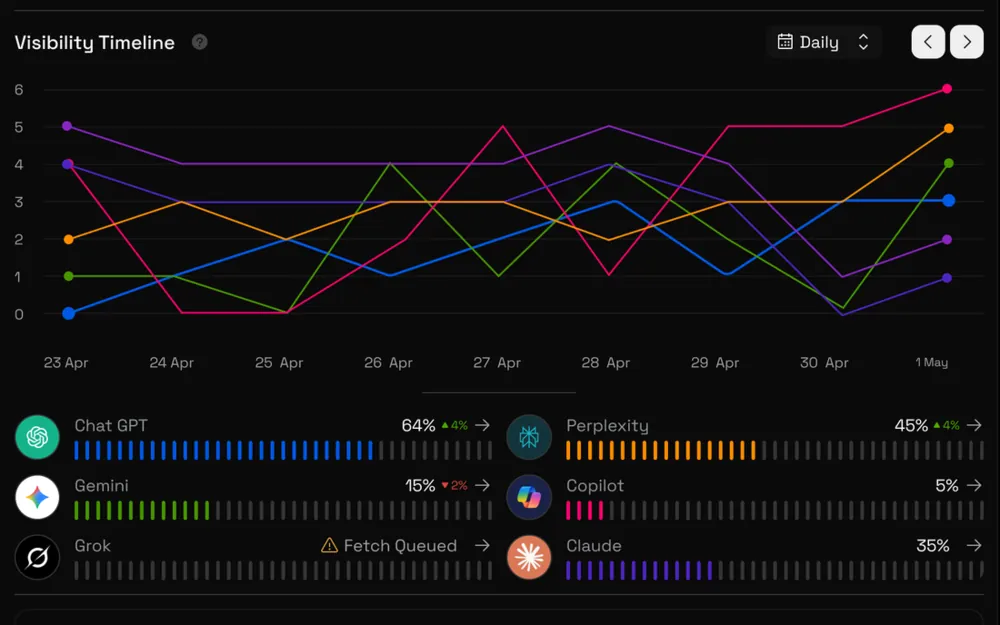
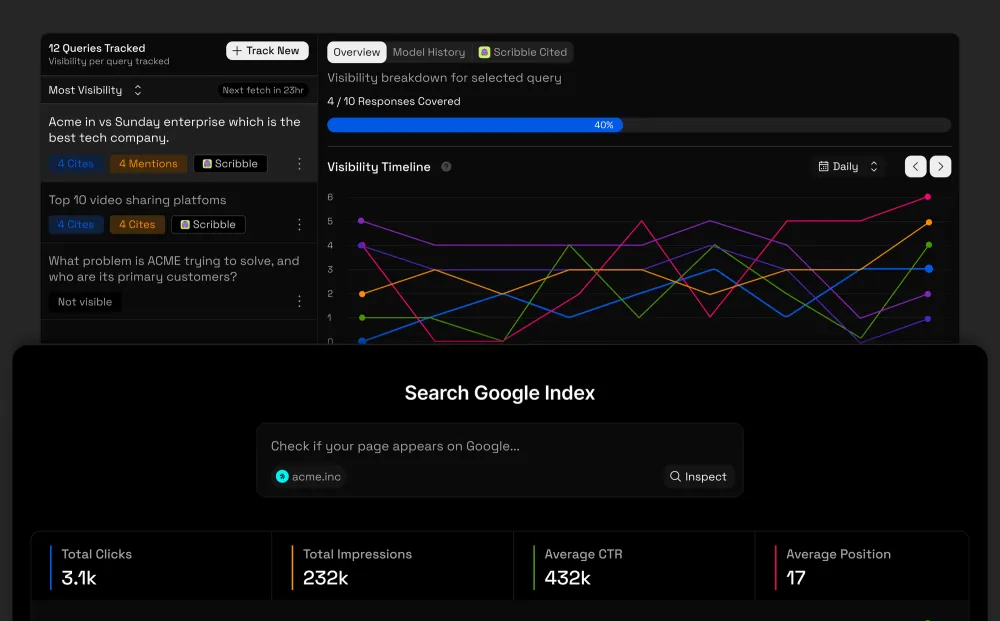
Refresh case-study screenshots, new OG image, mobile form and drawer fixes
- Replace Sciaxo, Buidl.so and Scribble drawer screenshots with single optimized WebP sets
- New OG image and Twitter card tags, title separator
- Stack contact form labels above fields on phones; no autofocus when drawers open on touch
- Fix theme reveal flash (fill: forwards, drop brightness bloom)
- Composer links are buttons without mailto hrefs; all mailto links use hey@glitchnobody.com
- Remove unused CSS

diff --git a/index.html b/index.html
@@ -3,23 +3,26 @@
 <head>
 	<meta charset="UTF-8">
 	<meta name="viewport" content="width=device-width, initial-scale=1.0">
-	<title>Siddhant Vij Product Designer &amp; Developer</title>
+	<title>Siddhant Vij | Product Designer &amp; Developer</title>
 	<meta name="description" content="Product designer and developer with 6+ years of experience, creating solutions that make people think, &ldquo;Why didn&rsquo;t this exist before?&rdquo;">
 	<link rel="canonical" href="https://siddhantvij.com/">
 	<link rel="alternate" type="text/markdown" href="/agent.md" title="Agent view">
 	<meta name="theme-color" content="#121212">
 	<meta property="og:type" content="website">
 	<meta property="og:site_name" content="Siddhant Vij">
-	<meta property="og:title" content="Siddhant Vij Product Designer &amp; Developer">
+	<meta property="og:title" content="Siddhant Vij | Product Designer &amp; Developer">
 	<meta property="og:description" content="Product designer and developer with 6+ years of experience, creating solutions that make people think, &ldquo;Why didn&rsquo;t this exist before?&rdquo;">
 	<meta property="og:url" content="https://siddhantvij.com/">
-	<meta property="og:image" content="https://siddhantvij.com/img/setup.webp">
-	<meta property="og:image:width" content="1600">
-	<meta property="og:image:height" content="900">
-	<meta property="og:image:alt" content="Siddhant Vij's Arch Linux desktop with a file manager, fastfetch, btop and a terminal">
+	<meta property="og:image" content="https://siddhantvij.com/img/og.jpg">
+	<meta property="og:image:type" content="image/jpeg">
+	<meta property="og:image:width" content="1200">
+	<meta property="og:image:height" content="630">
+	<meta property="og:image:alt" content="Siddhant Vij, with the words Make Products Feel Amazing on a dark on-screen keyboard">
 	<meta property="og:locale" content="en_US">
 	<meta name="author" content="Siddhant Vij">
 	<meta name="twitter:card" content="summary_large_image">
+	<meta name="twitter:title" content="Siddhant Vij | Product Designer &amp; Developer">
+	<meta name="twitter:image" content="https://siddhantvij.com/img/og.jpg">
 	<script type="application/ld+json">{"@context":"https://schema.org","@type":"Person","name":"Siddhant Vij","url":"https://siddhantvij.com/","jobTitle":"Product Designer & Developer","description":"Product designer and developer with 6+ years of experience.","email":"mailto:hey@glitchnobody.com","worksFor":{"@type":"Organization","name":"Auctervia"},"sameAs":["https://www.glitchnobody.com","https://www.behance.net/glitchnobody","https://x.com/glitchnobody","https://www.linkedin.com/in/glitchnobody","https://www.instagram.com/glitch.nobody"]}</script>
 	<link rel="icon" href="img/favicon.svg" type="image/svg+xml">
 	<link rel="preload" href="fonts/inter-tight-latin.woff2" as="font" type="font/woff2" crossorigin>
@@ -45,9 +48,9 @@
 				</div>
 			</div>
 
-			<p>I&rsquo;m a product designer and developer with 6+ years of experience building experiences people want to keep coming back to. Currently, I&rsquo;m building the visibility layer that makes AI agents accountable at <a class="chip" href="mailto:sid.work0001@gmail.com?subject=Auctervia" data-open="auctervia" data-lead="," data-reveal="we save your tokens and deploy AI at scale while making sure it never performs any unauthorised tasks."><svg aria-hidden="true"><use href="img/icons.svg#auctervia"/></svg>Auctervia</a>, while also consulting as a product lead at <a class="chip" href="https://sciaxolabs.com" target="_blank" rel="noopener" data-lead="," data-reveal="building AI-native products for large-scale team and employee management."><svg aria-hidden="true"><use href="img/icons.svg#sciaxo"/></svg>Sciaxo Labs</a>. Previously, I was working as the product lead at <a class="chip" href="https://scribble.network" target="_blank" rel="noopener" data-lead="," data-reveal="UGC content driver for AI visibility using 500k creators."><svg class="rnd" aria-hidden="true"><use href="img/icons.svg#scribble"/></svg>Scribble</a>, helping brands understand and improve their visibility in AI answers. I love creating solutions that make people think, &ldquo;Why didn&rsquo;t this exist before?&rdquo;</p>
+			<p>I&rsquo;m a product designer and developer with 6+ years of experience building experiences people want to keep coming back to. Currently, I&rsquo;m building the visibility layer that makes AI agents accountable at <a class="chip" href="mailto:hey@glitchnobody.com?subject=Auctervia" data-open="auctervia" data-lead="," data-reveal="we save your tokens and deploy AI at scale while making sure it never performs any unauthorised tasks."><svg aria-hidden="true"><use href="img/icons.svg#auctervia"/></svg>Auctervia</a>, while also consulting as a product lead at <a class="chip" href="https://sciaxolabs.com" target="_blank" rel="noopener" data-lead="," data-reveal="building AI-native products for large-scale team and employee management."><svg aria-hidden="true"><use href="img/icons.svg#sciaxo"/></svg>Sciaxo Labs</a>. Previously, I was working as the product lead at <a class="chip" href="https://scribble.network" target="_blank" rel="noopener" data-lead="," data-reveal="UGC content driver for AI visibility using 500k creators."><svg class="rnd" aria-hidden="true"><use href="img/icons.svg#scribble"/></svg>Scribble</a>, helping brands understand and improve their visibility in AI answers. I love creating solutions that make people think, &ldquo;Why didn&rsquo;t this exist before?&rdquo;</p>
 
-			<p>Say hello by dropping me a <a class="ilink" href="mailto:sid.work0001@gmail.com" data-open="contact"><svg aria-hidden="true"><use href="img/icons.svg#mail"/></svg><b>Mail</b></a>, and if you are curious about my work explore more and read My case studies on <a class="chip" href="https://www.glitchnobody.com" data-lead="." data-reveal="I also put up graphics, motion and other cool stuff here."><svg aria-hidden="true"><use href="img/icons.svg#glitchnobody"/></svg>Glitchnobody.com</a>. I am active on <a class="ilink" href="https://x.com/glitchnobody" target="_blank" rel="noopener"><svg aria-hidden="true"><use href="img/icons.svg#x"/></svg><b>x.com</b></a>, <a class="ilink" href="https://www.linkedin.com/in/glitchnobody" target="_blank" rel="noopener"><svg aria-hidden="true"><use href="img/icons.svg#linkedin"/></svg><b>LinkedIn</b></a> and <a class="ilink" href="https://www.instagram.com/glitch.nobody" target="_blank" rel="noopener"><svg aria-hidden="true"><use href="img/icons.svg#instagram"/></svg><b>Instagram</b></a>.</p>
+			<p>Say hello by dropping me a <a class="ilink" href="mailto:hey@glitchnobody.com" data-open="contact"><svg aria-hidden="true"><use href="img/icons.svg#mail"/></svg><b>Mail</b></a>, and if you are curious about my work explore more and read My case studies on <a class="chip" href="https://www.glitchnobody.com" data-lead="." data-reveal="I also put up graphics, motion and other cool stuff here."><svg aria-hidden="true"><use href="img/icons.svg#glitchnobody"/></svg>Glitchnobody.com</a>. I am active on <a class="ilink" href="https://x.com/glitchnobody" target="_blank" rel="noopener"><svg aria-hidden="true"><use href="img/icons.svg#x"/></svg><b>x.com</b></a>, <a class="ilink" href="https://www.linkedin.com/in/glitchnobody" target="_blank" rel="noopener"><svg aria-hidden="true"><use href="img/icons.svg#linkedin"/></svg><b>LinkedIn</b></a> and <a class="ilink" href="https://www.instagram.com/glitch.nobody" target="_blank" rel="noopener"><svg aria-hidden="true"><use href="img/icons.svg#instagram"/></svg><b>Instagram</b></a>.</p>
 		</section>
 
 		<section class="group experience">
@@ -66,7 +69,7 @@
 			<ul>
 				<!-- the whole row opens the contact form through .cover, so the copy button can sit on top of it -->
 				<li class="row has-cover">
-					<a class="cover" href="mailto:sid.work0001@gmail.com" data-open="contact" aria-label="Email"></a>
+					<a class="cover" href="mailto:hey@glitchnobody.com" data-open="contact" aria-label="Email"></a>
 					<span class="tile"><svg aria-hidden="true"><use href="img/icons.svg#mail"/></svg></span>
 					<span class="who"><span class="name">Email</span><span class="role">hey@glitchnobody.com</span></span>
 					<span class="go">
@@ -195,9 +198,9 @@
 		<div class="rbody"></div>
 	</dialog>
 	<template id="role-auctervia"><p class="lede">Building the visibility layer that makes AI agents accountable. We save your tokens and deploy AI at scale, while making sure it never performs any unauthorised tasks.</p></template>
-	<template id="role-sciaxo"><h3>Product identity &amp; design</h3><p>Created the product identity for their HexaShifts product on web app and mobile. Created a UI library the team can use, along with proper UI flows, to make the process of team management effortless.</p><h3>My responsibility</h3><p>My core responsibility was the oversight of product development and design, creating solutions to deploy the app at scale to manage concerts and sports events in the UK.</p><div class="shots"><figure class="shot tl"><img src="img/work/sciaxo-overview-1000.webp" srcset="img/work/sciaxo-overview-640.webp 640w, img/work/sciaxo-overview-1000.webp 1000w, img/work/sciaxo-overview-1400.webp 1400w" sizes="(min-width: 561px) min(728px, calc(100vw - 72px)), calc(100vw - 72px)" width="1000" height="481" loading="lazy" alt="HexaShifts team overview: employees, active shifts, completed shifts and pending approvals, with shift trend and attendance charts"></figure><figure class="shot tr"><img src="img/work/sciaxo-schedule-1000.webp" srcset="img/work/sciaxo-schedule-640.webp 640w, img/work/sciaxo-schedule-1000.webp 1000w, img/work/sciaxo-schedule-1400.webp 1400w" sizes="(min-width: 561px) min(728px, calc(100vw - 72px)), calc(100vw - 72px)" width="1000" height="625" loading="lazy" alt="HexaShifts schedule: a day view of shifts grouped by workforce position, with each shift published"></figure><figure class="shot tl"><img src="img/work/sciaxo-people-1000.webp" srcset="img/work/sciaxo-people-640.webp 640w, img/work/sciaxo-people-1000.webp 1000w, img/work/sciaxo-people-1400.webp 1400w" sizes="(min-width: 561px) min(728px, calc(100vw - 72px)), calc(100vw - 72px)" width="1000" height="500" loading="lazy" alt="HexaShifts people list: employees with their role, position, zones and active status"></figure></div></template>
-	<template id="role-scribble"><h3>Product &amp; brand</h3><p>Created both the B2B and customer platform software for AI optimized SEO content, and headed product design and brand identity. Implemented new features to improve UX and boost user satisfaction.</p><h3>Results</h3><p>Built a platform with 20+ companies as paying customers and over 50,000 creators making UGC content.</p><h3>My responsibility</h3><p>Contributed to frontend code for UI animations and user-centric features, and played a key role in user research, affinity mapping and product roadmap planning.</p><div class="shots"><figure class="shot tl"><img src="img/work/scribble-overview-1000.webp" srcset="img/work/scribble-overview-640.webp 640w, img/work/scribble-overview-1000.webp 1000w, img/work/scribble-overview-1400.webp 1400w" sizes="(min-width: 561px) min(728px, calc(100vw - 72px)), calc(100vw - 72px)" width="1000" height="625" loading="lazy" alt="Scribble overview: queries tracked, competitors and engines, total visibility, a visibility timeline and the most visible queries"></figure><figure class="shot tr"><img src="img/work/scribble-queries-1000.webp" srcset="img/work/scribble-queries-640.webp 640w, img/work/scribble-queries-1000.webp 1000w, img/work/scribble-queries-1400.webp 1400w" sizes="(min-width: 561px) min(728px, calc(100vw - 72px)), calc(100vw - 72px)" width="1000" height="625" loading="lazy" alt="Scribble query insights: visibility breakdown per AI model for a selected query, with its timeline and sources"></figure><figure class="shot tl"><img src="img/work/scribble-analytics-1000.webp" srcset="img/work/scribble-analytics-640.webp 640w, img/work/scribble-analytics-1000.webp 1000w, img/work/scribble-analytics-1400.webp 1400w" sizes="(min-width: 561px) min(728px, calc(100vw - 72px)), calc(100vw - 72px)" width="1000" height="625" loading="lazy" alt="Scribble Google Analytics view: returning users, sessions, page views, user acquisition by channel and daily trends"></figure></div></template>
-	<template id="role-buidl"><h3>Brand &amp; design system</h3><p>Led the rebranding of the Buidl.so app platform, enhancing its visual identity, and developed and optimized the company design system for consistency.</p><h3>Product</h3><p>Implemented new features to improve UX and boost user satisfaction, collaborating with developers to ship them seamlessly, and worked with the copywriting and marketing team to enhance user traction.</p><h3>Results</h3><p>The platform grew to 1458+ startups, with $3,371,996+ in credits disbursed, 408+ value adders and 106+ asks fulfilled.</p><h3>My responsibility</h3><p>Contributed to frontend code for UI animations and user-centric features, and played a key role in user research, affinity mapping and product roadmap planning.</p><div class="shots"><figure class="shot tr"><img src="img/work/buidl-feed-1000.webp" srcset="img/work/buidl-feed-640.webp 640w, img/work/buidl-feed-1000.webp 1000w, img/work/buidl-feed-1400.webp 1400w" sizes="(min-width: 561px) min(728px, calc(100vw - 72px)), calc(100vw - 72px)" width="1000" height="625" loading="lazy" alt="Buidl.so feed with program, product update and credits announcements, and a startup stats panel"></figure><figure class="shot tl"><img src="img/work/buidl-landing-1000.webp" srcset="img/work/buidl-landing-640.webp 640w, img/work/buidl-landing-1000.webp 1000w, img/work/buidl-landing-1400.webp 1400w" sizes="(min-width: 561px) min(728px, calc(100vw - 72px)), calc(100vw - 72px)" width="1000" height="625" loading="lazy" alt="Buidl.so landing page: Show Progress, Get Ecosystem Support, with the Builders Tribe progress timeline"></figure><figure class="shot tr"><img src="img/work/buidl-programs-1000.webp" srcset="img/work/buidl-programs-640.webp 640w, img/work/buidl-programs-1000.webp 1000w, img/work/buidl-programs-1400.webp 1400w" sizes="(min-width: 561px) min(728px, calc(100vw - 72px)), calc(100vw - 72px)" width="1000" height="625" loading="lazy" alt="Buidl.so programs page with a featured Demo Day program and a grid of programs to apply to"></figure><figure class="shot tl"><img src="img/work/buidl-messaging-1000.webp" srcset="img/work/buidl-messaging-640.webp 640w, img/work/buidl-messaging-1000.webp 1000w, img/work/buidl-messaging-1400.webp 1400w" sizes="(min-width: 561px) min(728px, calc(100vw - 72px)), calc(100vw - 72px)" width="1000" height="625" loading="lazy" alt="Buidl.so messaging with a conversation list, chat thread and a crypto wallet"></figure></div></template>
+	<template id="role-sciaxo"><h3>Product identity &amp; design</h3><p>Created the product identity for their HexaShifts product on web app and mobile. Created a UI library the team can use, along with proper UI flows, to make the process of team management effortless.</p><h3>My responsibility</h3><p>My core responsibility was the oversight of product development and design, creating solutions to deploy the app at scale to manage concerts and sports events in the UK.</p><div class="shots"><figure class="shot"><img src="img/work/sciaxo-1000.webp" srcset="img/work/sciaxo-640.webp 640w, img/work/sciaxo-1000.webp 1000w, img/work/sciaxo-1400.webp 1400w" sizes="(min-width: 561px) min(728px, calc(100vw - 72px)), calc(100vw - 72px)" width="1000" height="621" loading="lazy" alt="HexaShifts team view: sidebar navigation, a people list, pending approval stats and a shift trends chart"></figure></div></template>
+	<template id="role-scribble"><h3>Product &amp; brand</h3><p>Created both the B2B and customer platform software for AI optimized SEO content, and headed product design and brand identity. Implemented new features to improve UX and boost user satisfaction.</p><h3>Results</h3><p>Built a platform with 20+ companies as paying customers and over 50,000 creators making UGC content.</p><h3>My responsibility</h3><p>Contributed to frontend code for UI animations and user-centric features, and played a key role in user research, affinity mapping and product roadmap planning.</p><div class="shots"><figure class="shot"><img src="img/work/scribble-visibility-1000.webp" srcset="img/work/scribble-visibility-640.webp 640w, img/work/scribble-visibility-1000.webp 1000w, img/work/scribble-visibility-1400.webp 1400w" sizes="(min-width: 561px) min(728px, calc(100vw - 72px)), calc(100vw - 72px)" width="1000" height="621" loading="lazy" alt="Scribble dashboard: total visibility score, visibility per AI model, a conversation radar and a visibility timeline"></figure><figure class="shot"><img src="img/work/scribble-queries-1000.webp" srcset="img/work/scribble-queries-640.webp 640w, img/work/scribble-queries-1000.webp 1000w, img/work/scribble-queries-1400.webp 1400w" sizes="(min-width: 561px) min(728px, calc(100vw - 72px)), calc(100vw - 72px)" width="1000" height="621" loading="lazy" alt="Scribble query tracking: tracked queries with cites and mentions, a visibility timeline and Google index search stats"></figure></div></template>
+	<template id="role-buidl"><h3>Brand &amp; design system</h3><p>Led the rebranding of the Buidl.so app platform, enhancing its visual identity, and developed and optimized the company design system for consistency.</p><h3>Product</h3><p>Implemented new features to improve UX and boost user satisfaction, collaborating with developers to ship them seamlessly, and worked with the copywriting and marketing team to enhance user traction.</p><h3>Results</h3><p>The platform grew to 1458+ startups, with $3,371,996+ in credits disbursed, 408+ value adders and 106+ asks fulfilled.</p><h3>My responsibility</h3><p>Contributed to frontend code for UI animations and user-centric features, and played a key role in user research, affinity mapping and product roadmap planning.</p><div class="shots"><figure class="shot"><img src="img/work/buidl-tribe-1000.webp" srcset="img/work/buidl-tribe-640.webp 640w, img/work/buidl-tribe-1000.webp 1000w, img/work/buidl-tribe-1400.webp 1400w" sizes="(min-width: 561px) min(728px, calc(100vw - 72px)), calc(100vw - 72px)" width="1000" height="621" loading="lazy" alt="Builders Tribe overview: startup profile, follower analytics and a quarterly timeline of unlocked credits and mentors"></figure><figure class="shot"><img src="img/work/buidl-community-1000.webp" srcset="img/work/buidl-community-640.webp 640w, img/work/buidl-community-1000.webp 1000w, img/work/buidl-community-1400.webp 1400w" sizes="(min-width: 561px) min(728px, calc(100vw - 72px)), calc(100vw - 72px)" width="1000" height="621" loading="lazy" alt="Buidl.so community: programs and updates, direct messages and a crypto wallet"></figure></div></template>
 	<template id="role-lumos"><h3>UI library</h3><p>Built a UI library with integrated animations for the frontend, and improved development efficiency with a Figma component library. Helped develop the UI design system.</p><h3>Product &amp; design</h3><p>Contributed to UX/UI design with mid and high fidelity wireframes and prototypes, and developed features for a hackathon and education platform.</p><h3>Migration &amp; stack</h3><p>Assisted in migrating assets and the codebase to Buidl.so after the merger. Worked with Next.js, Redux, Three.js, Tailwind and Figma.</p></template>
 
 	<script src="js/jquery.min.js"></script>

diff --git a/global.css b/global.css
@@ -391,7 +391,6 @@ dialog form { display: flex; flex-direction: column; gap: 14px; padding: 24px; }
 dialog .title { margin: 0; font-size: 1rem; font-weight: 600; line-height: 1.3; text-wrap: balance; }
 dialog .blurb { margin: -6px 0 0; font-size: 0.875rem; line-height: 1.4; color: var(--fg-3); text-wrap: pretty; }
 dialog label { display: flex; flex-direction: column; gap: 6px; font-size: 0.875rem; line-height: 1.25; color: var(--fg-3); }
-dialog .opt { opacity: 0.7; }
 dialog input, dialog textarea {
 	padding: 10px 12px;
 	border: 1px solid var(--line);
@@ -557,7 +556,8 @@ form[data-state=error] { animation: shake 0.35s var(--ease-out); }
 	.client { width: 32px; padding: 0; justify-content: center; }   /* phones: the link shrinks to its arrow so the pill fits */
 	.client span { display: none; }
 	.cc-pop { width: min(280px, calc(100vw - 80px)); }
-	.mrow .k { width: 52px; font-size: 0.875rem; }
+	.mrow { flex-wrap: wrap; row-gap: 4px; }
+	.mrow .k { width: 100%; font-size: 0.875rem; }   /* the label sits above its field */
 	.contact .x { top: 30px; }   /* clears the drawer handle */
 }
 
@@ -625,14 +625,10 @@ dialog.colophon .x:hover { background: transparent; color: var(--fg); }
 .embedded .mhead { display: none; }
 .embedded .msub { margin: 0 0 4px; font-size: 1.0625rem; font-weight: 600; line-height: 1.35; letter-spacing: -0.01em; color: var(--fg); }
 
-/* product screenshots inside the experience drawer: a neutral gradient card with padding on one top corner, the crop bleeding off the other edges */
+/* product screenshots inside the experience drawer: rounded, full-width images */
 .exp .shots { display: flex; flex-direction: column; gap: 16px; margin-top: 24px; padding-top: 24px; border-top: 1px solid var(--line); }
-.exp .shot { margin: 0; overflow: hidden; border: 1px solid var(--line); border-radius: 12px; }
-.exp .shot.tl { padding: 24px 0 0 24px; background: linear-gradient(135deg, color-mix(in srgb, var(--fg) 16%, var(--bg)), color-mix(in srgb, var(--fg) 4%, var(--bg))); }
-.exp .shot.tr { padding: 24px 24px 0 0; background: linear-gradient(225deg, color-mix(in srgb, var(--fg) 16%, var(--bg)), color-mix(in srgb, var(--fg) 4%, var(--bg))); }
+.exp .shot { margin: 0; overflow: hidden; border-radius: 12px; }
 .exp .shot img { display: block; width: 100%; height: auto; }
-.exp .shot.tl img { border-radius: 8px 0 0 0; }
-.exp .shot.tr img { border-radius: 0 8px 0 0; }
 
 @media (min-width: 561px) { dialog.exp { width: min(800px, 100vw); } }   /* the experience drawer is wider so the screenshots have room */
 
@@ -640,3 +636,6 @@ dialog.colophon .x:hover { background: transparent; color: var(--fg); }
 @media (max-width: 560px) {
 	dialog:not(.lightbox) { height: calc(var(--vvh, 100dvh) - 24px); overflow-y: auto; }
 }
+
+dialog:focus { outline: 0; }   /* a drawer focused as a whole on phones shows no ring */
+a[data-open] { cursor: pointer; }

diff --git a/js/main.js b/js/main.js
@@ -199,7 +199,7 @@ $(function () {
 			if (on) api.btn();
 		});
 		// any other button or link gets the default click, except the light/dark one, which has its own
-		$(document).on('click', 'button:not(#theme):not(#sound), a[href]', () => api.btn());
+		$(document).on('click', 'button:not(#theme):not(#sound), a[href], a[data-open]', () => api.btn());
 		$(document).on('auxclick', 'a[href]', e => { if (e.button === 1) api.btn(); });   // a middle-click opens the link in a new tab, so it clicks too
 		label();
 		return api;
@@ -245,10 +245,9 @@ $(function () {
 		if (!soft) root.style.setProperty('--r', '99999px'); // no soft mask: leave the new layer fully visible and use the plain circle
 		vt.ready.then(() => {
 			const to = '::view-transition-new(root)';
-			if (!soft) return root.animate({ clipPath: [`circle(0px at ${x}px ${y}px)`, `circle(${r}px at ${x}px ${y}px)`] }, { duration: 900, easing: 'cubic-bezier(.65,0,.35,1)', pseudoElement: to });
-			// the new theme grows out of the click as a soft-edged bloom, and arrives a touch bright, like a light turning on
-			root.animate({ '--r': ['0px', r + 'px'] }, { duration: 1100, easing: 'cubic-bezier(.45,.05,.25,1)', pseudoElement: to });
-			root.animate({ filter: ['brightness(1.4)', 'brightness(1)'] }, { duration: 1100, easing: 'ease-out', pseudoElement: to });
+			if (!soft) return root.animate({ clipPath: [`circle(0px at ${x}px ${y}px)`, `circle(${r}px at ${x}px ${y}px)`] }, { duration: 900, easing: 'cubic-bezier(.65,0,.35,1)', fill: 'forwards', pseudoElement: to });
+			// the new theme grows out of the click as a soft-edged bloom
+			root.animate({ '--r': ['0px', r + 'px'] }, { duration: 1100, easing: 'cubic-bezier(.45,.05,.25,1)', fill: 'forwards', pseudoElement: to });
 		}).catch(() => {});
 		vt.finished.finally(() => { switching = false; });
 	}

diff --git a/js/dialogs.js b/js/dialogs.js
@@ -1,3 +1,12 @@
+// Links that open the composer are buttons, not mailto: links: no href means no "mailto:" tooltip and no address in the status bar
+document.querySelectorAll('a[data-open]').forEach(a => { a.removeAttribute('href'); a.setAttribute('role', 'button'); a.tabIndex = 0; });
+document.addEventListener('keydown', e => { const a = e.target.closest && e.target.closest('a[data-open]'); if (a && (e.key === 'Enter' || e.key === ' ')) { e.preventDefault(); a.click(); } });
+// On phones a drawer opens with nothing focused: no keyboard popping up and no highlighted field or close button
+const nativeShowModal = HTMLDialogElement.prototype.showModal;
+HTMLDialogElement.prototype.showModal = function () {
+	nativeShowModal.call(this);
+	if (matchMedia('(pointer: coarse), (max-width: 560px)').matches) { this.tabIndex = -1; this.focus({ preventScroll: true }); }
+};
 // Every <dialog> that has a form posts it to /api/contact (src/worker.js).
 // Anything with data-open="<dialog id>" opens that dialog; without JavaScript it stays a normal mailto: link.
 // One composer serves both openers: data-open="contact" and data-open="auctervia" only change the subtext, topic and prefilled subject.
